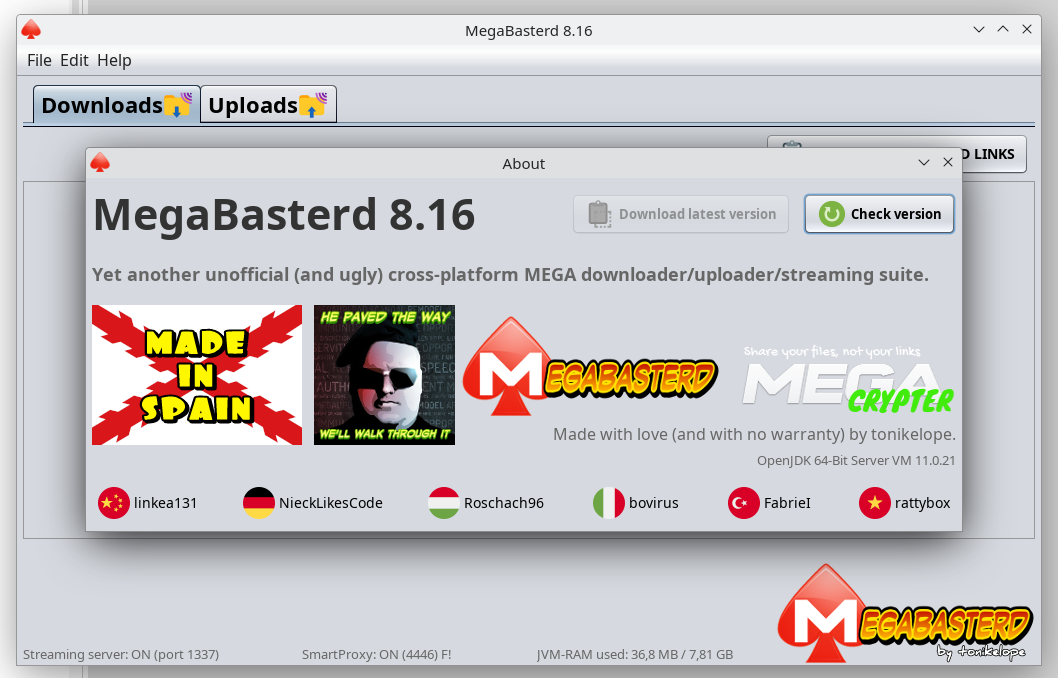
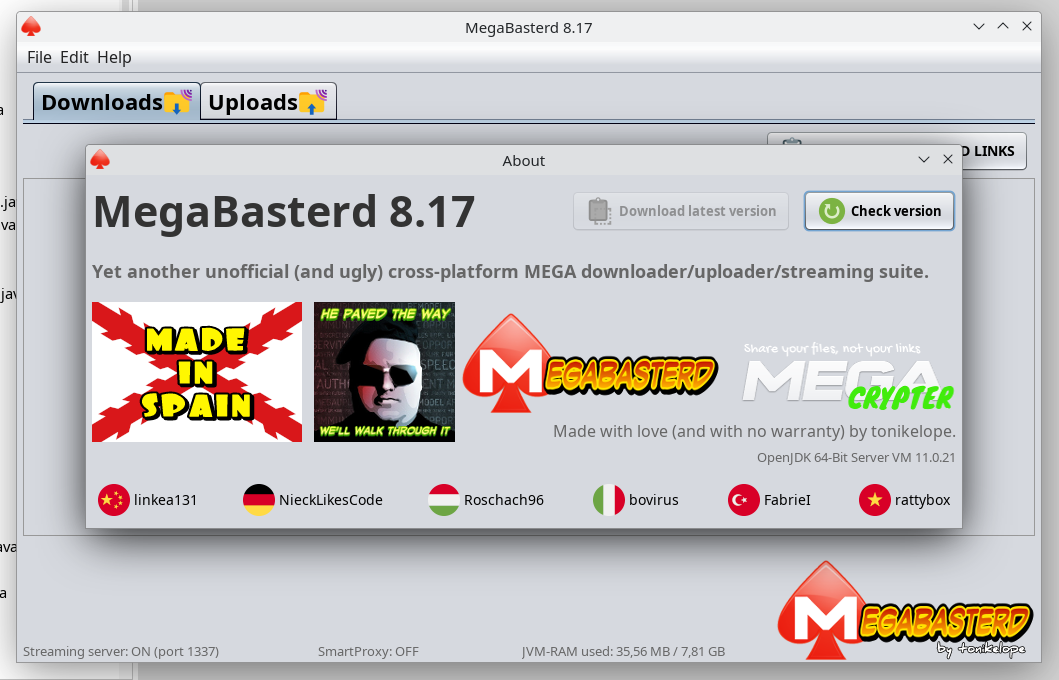
8.17
Dark mode in advanced settings (experimental)

diff --git a/src/main/java/com/tonikelope/megabasterd/SettingsDialog.java b/src/main/java/com/tonikelope/megabasterd/SettingsDialog.java
@@ -387,6 +387,17 @@ public class SettingsDialog extends javax.swing.JDialog {
                 proxy_sequential_radio.setSelected(true);
             }
 
+            boolean dark_mode = false;
+
+            String dark_mode_select = DBTools.selectSettingValue("dark_mode");
+
+            if (dark_mode_select != null) {
+
+                dark_mode = dark_mode_select.equals("yes");
+            }
+
+            dark_mode_checkbox.setSelected(dark_mode);
+
             String max_ul_speed = DBTools.selectSettingValue("max_upload_speed");
 
             int max_upload_speed = Upload.MAX_TRANSFERENCE_SPEED_DEFAULT;
@@ -883,6 +894,7 @@ public class SettingsDialog extends javax.swing.JDialog {
         font_combo = new javax.swing.JComboBox<>();
         zoom_label = new javax.swing.JLabel();
         zoom_spinner = new javax.swing.JSpinner();
+        dark_mode_checkbox = new javax.swing.JCheckBox();
         debug_file_path = new javax.swing.JLabel();
         status = new javax.swing.JLabel();
 
@@ -996,6 +1008,7 @@ public class SettingsDialog extends javax.swing.JDialog {
 
         default_dir_label.setBackground(new java.awt.Color(153, 255, 153));
         default_dir_label.setFont(new java.awt.Font("Dialog", 0, 18)); // NOI18N
+        default_dir_label.setForeground(new java.awt.Color(51, 0, 255));
         default_dir_label.setText("default dir");
         default_dir_label.setOpaque(true);
 
@@ -1364,6 +1377,7 @@ public class SettingsDialog extends javax.swing.JDialog {
         public_folder_warning.setBackground(new java.awt.Color(255, 255, 51));
         public_folder_warning.setColumns(20);
         public_folder_warning.setFont(new java.awt.Font("Noto Sans", 1, 18)); // NOI18N
+        public_folder_warning.setForeground(new java.awt.Color(0, 51, 255));
         public_folder_warning.setLineWrap(true);
         public_folder_warning.setRows(5);
         public_folder_warning.setText("THIS OPTION IS NOT RECOMMENDED. Using this will cause MegaBasterd uploaded folder to appear in your account as NOT DECRYPTABLE. \n\nAt the time of writing this text, there is a method to FIX IT:\n\n1) Move first upload subfolder to the ROOT (CLOUD) folder of your account. \n\n2) Go to account settings and click RELOAD ACCOUNT. \n\nI don't know how long this method will last. USE THIS OPTION AT YOUR OWN RISK.");
@@ -1889,25 +1903,30 @@ public class SettingsDialog extends javax.swing.JDialog {
         zoom_spinner.setFont(new java.awt.Font("Dialog", 0, 18)); // NOI18N
         zoom_spinner.setDoubleBuffered(true);
 
+        dark_mode_checkbox.setFont(new java.awt.Font("Dialog", 1, 18)); // NOI18N
+        dark_mode_checkbox.setText("DARK MODE");
+
         javax.swing.GroupLayout jPanel2Layout = new javax.swing.GroupLayout(jPanel2);
         jPanel2.setLayout(jPanel2Layout);
         jPanel2Layout.setHorizontalGroup(
             jPanel2Layout.createParallelGroup(javax.swing.GroupLayout.Alignment.LEADING)
             .addGroup(jPanel2Layout.createSequentialGroup()
                 .addContainerGap()
-                .addGroup(jPanel2Layout.createParallelGroup(javax.swing.GroupLayout.Alignment.LEADING, false)
-                    .addGroup(jPanel2Layout.createSequentialGroup()
-                        .addGroup(jPanel2Layout.createParallelGroup(javax.swing.GroupLayout.Alignment.LEADING)
-                            .addComponent(zoom_label)
-                            .addComponent(font_label))
-                        .addPreferredGap(javax.swing.LayoutStyle.ComponentPlacement.RELATED, javax.swing.GroupLayout.DEFAULT_SIZE, Short.MAX_VALUE)
-                        .addGroup(jPanel2Layout.createParallelGroup(javax.swing.GroupLayout.Alignment.LEADING, false)
-                            .addComponent(font_combo, 0, javax.swing.GroupLayout.DEFAULT_SIZE, Short.MAX_VALUE)
-                            .addComponent(zoom_spinner, javax.swing.GroupLayout.PREFERRED_SIZE, 351, javax.swing.GroupLayout.PREFERRED_SIZE)))
-                    .addGroup(jPanel2Layout.createSequentialGroup()
-                        .addComponent(jLabel2)
-                        .addPreferredGap(javax.swing.LayoutStyle.ComponentPlacement.RELATED, javax.swing.GroupLayout.DEFAULT_SIZE, Short.MAX_VALUE)
-                        .addComponent(language_combo, javax.swing.GroupLayout.PREFERRED_SIZE, 351, javax.swing.GroupLayout.PREFERRED_SIZE)))
+                .addGroup(jPanel2Layout.createParallelGroup(javax.swing.GroupLayout.Alignment.LEADING)
+                    .addGroup(jPanel2Layout.createParallelGroup(javax.swing.GroupLayout.Alignment.LEADING, false)
+                        .addGroup(jPanel2Layout.createSequentialGroup()
+                            .addGroup(jPanel2Layout.createParallelGroup(javax.swing.GroupLayout.Alignment.LEADING)
+                                .addComponent(zoom_label)
+                                .addComponent(font_label))
+                            .addPreferredGap(javax.swing.LayoutStyle.ComponentPlacement.RELATED, javax.swing.GroupLayout.DEFAULT_SIZE, Short.MAX_VALUE)
+                            .addGroup(jPanel2Layout.createParallelGroup(javax.swing.GroupLayout.Alignment.LEADING, false)
+                                .addComponent(font_combo, 0, javax.swing.GroupLayout.DEFAULT_SIZE, Short.MAX_VALUE)
+                                .addComponent(zoom_spinner, javax.swing.GroupLayout.PREFERRED_SIZE, 351, javax.swing.GroupLayout.PREFERRED_SIZE)))
+                        .addGroup(jPanel2Layout.createSequentialGroup()
+                            .addComponent(jLabel2)
+                            .addPreferredGap(javax.swing.LayoutStyle.ComponentPlacement.RELATED, javax.swing.GroupLayout.DEFAULT_SIZE, Short.MAX_VALUE)
+                            .addComponent(language_combo, javax.swing.GroupLayout.PREFERRED_SIZE, 351, javax.swing.GroupLayout.PREFERRED_SIZE)))
+                    .addComponent(dark_mode_checkbox))
                 .addContainerGap())
         );
         jPanel2Layout.setVerticalGroup(
@@ -1925,6 +1944,8 @@ public class SettingsDialog extends javax.swing.JDialog {
                 .addGroup(jPanel2Layout.createParallelGroup(javax.swing.GroupLayout.Alignment.BASELINE)
                     .addComponent(jLabel2)
                     .addComponent(language_combo, javax.swing.GroupLayout.PREFERRED_SIZE, javax.swing.GroupLayout.DEFAULT_SIZE, javax.swing.GroupLayout.PREFERRED_SIZE))
+                .addPreferredGap(javax.swing.LayoutStyle.ComponentPlacement.RELATED)
+                .addComponent(dark_mode_checkbox)
                 .addContainerGap())
         );
 
@@ -2102,6 +2123,7 @@ public class SettingsDialog extends javax.swing.JDialog {
             settings.put("force_smart_proxy", force_smart_proxy_checkbox.isSelected() ? "yes" : "no");
             settings.put("reset_slot_proxy", proxy_reset_slot_checkbox.isSelected() ? "yes" : "no");
             settings.put("random_proxy", proxy_random_radio.isSelected() ? "yes" : "no");
+            settings.put("dark_mode", dark_mode_checkbox.isSelected() ? "yes" : "no");
             settings.put("upload_public_folder", upload_public_folder_checkbox.isSelected() ? "yes" : "no");
             settings.put("smartproxy_ban_time", String.valueOf(bad_proxy_time_spinner.getValue()));
             settings.put("smartproxy_timeout", String.valueOf(proxy_timeout_spinner.getValue()));
@@ -2168,6 +2190,16 @@ public class SettingsDialog extends javax.swing.JDialog {
             }
 
             String zoom = String.valueOf(zoom_spinner.getValue());
+
+            boolean old_dark_mode = false;
+
+            String dark_mode_val = DBTools.selectSettingValue("dark_mode");
+
+            if (dark_mode_val != null) {
+                old_dark_mode = (dark_mode_val.equals("yes"));
+            }
+
+            boolean dark_mode = dark_mode_checkbox.isSelected();
 
             boolean old_use_proxy = false;
 
@@ -2242,7 +2274,8 @@ public class SettingsDialog extends javax.swing.JDialog {
                     || !proxy_host.equals(old_proxy_host)
                     || !proxy_port.equals(old_proxy_port)
                     || !proxy_user.equals(old_proxy_user)
-                    || !proxy_pass.equals(old_proxy_pass)) {
+                    || !proxy_pass.equals(old_proxy_pass)
+                    || dark_mode != old_dark_mode) {
 
                 _main_panel.setRestart(true);
             }
@@ -3416,6 +3449,7 @@ public class SettingsDialog extends javax.swing.JDialog {
     private javax.swing.JLabel custom_chunks_dir_current_label;
     private javax.swing.JLabel custom_proxy_list_label;
     private javax.swing.JTextArea custom_proxy_textarea;
+    private javax.swing.JCheckBox dark_mode_checkbox;
     private javax.swing.JCheckBox debug_file_checkbox;
     private javax.swing.JLabel debug_file_path;
     private javax.swing.JLabel default_dir_label;

diff --git a/src/main/java/com/tonikelope/megabasterd/MiscTools.java b/src/main/java/com/tonikelope/megabasterd/MiscTools.java
@@ -11,6 +11,7 @@ package com.tonikelope.megabasterd;
 
 import static com.tonikelope.megabasterd.MainPanel.THREAD_POOL;
 import static com.tonikelope.megabasterd.MainPanel.VERSION;
+import java.awt.Color;
 import java.awt.Component;
 import java.awt.Container;
 import java.awt.Desktop;
@@ -99,6 +100,8 @@ import javax.swing.JOptionPane;
 import javax.swing.JPanel;
 import javax.swing.JTree;
 import javax.swing.SwingUtilities;
+import javax.swing.UIDefaults;
+import javax.swing.UIManager;
 import javax.swing.border.TitledBorder;
 import javax.swing.tree.DefaultMutableTreeNode;
 import javax.swing.tree.DefaultTreeModel;
@@ -280,12 +283,35 @@ public class MiscTools {
         return font;
     }
 
-    public static void setNimbusLookAndFeel() {
+    public static void setNimbusLookAndFeel(boolean dark) {
 
         try {
             for (javax.swing.UIManager.LookAndFeelInfo info : javax.swing.UIManager.getInstalledLookAndFeels()) {
                 if ("Nimbus".equals(info.getName())) {
                     javax.swing.UIManager.setLookAndFeel(info.getClassName());
+
+                    if (dark) {
+                        // Dark LAF
+                        UIManager.put("control", new Color(128, 128, 128));
+                        UIManager.put("info", new Color(128, 128, 128));
+                        UIManager.put("nimbusBase", new Color(18, 30, 49));
+                        UIManager.put("nimbusAlertYellow", new Color(248, 187, 0));
+                        UIManager.put("nimbusDisabledText", new Color(128, 128, 128));
+                        UIManager.put("nimbusFocus", new Color(115, 164, 209));
+                        UIManager.put("nimbusGreen", new Color(176, 179, 50));
+                        UIManager.put("nimbusInfoBlue", new Color(66, 139, 221));
+                        UIManager.put("nimbusLightBackground", new Color(18, 30, 49));
+                        UIManager.put("nimbusOrange", new Color(191, 98, 4));
+                        UIManager.put("nimbusRed", new Color(169, 46, 34));
+                        UIManager.put("nimbusSelectedText", new Color(255, 255, 255));
+                        UIManager.put("nimbusSelectionBackground", new Color(104, 93, 156));
+                        UIManager.put("text", new Color(230, 230, 230));
+                        // SwingUtilities.updateComponentTreeUI(this);
+                    } else {
+                        UIDefaults defaults = UIManager.getLookAndFeelDefaults();
+                        defaults.put("nimbusOrange", defaults.get("nimbusFocus"));
+                    }
+
                     break;
                 }
             }

diff --git a/src/main/java/com/tonikelope/megabasterd/MainPanel.java b/src/main/java/com/tonikelope/megabasterd/MainPanel.java
@@ -61,7 +61,6 @@ import static javax.swing.JOptionPane.YES_NO_CANCEL_OPTION;
 import static javax.swing.JOptionPane.showOptionDialog;
 import javax.swing.JPopupMenu;
 import javax.swing.SwingUtilities;
-import javax.swing.UIDefaults;
 import javax.swing.UIManager;
 
 /**
@@ -70,7 +69,7 @@ import javax.swing.UIManager;
  */
 public final class MainPanel {
 
-    public static final String VERSION = "8.16";
+    public static final String VERSION = "8.17";
     public static final boolean FORCE_SMART_PROXY = false; //TRUE FOR DEBUGING SMART PROXY
     public static final int THROTTLE_SLICE_SIZE = 16 * 1024;
     public static final int DEFAULT_BYTE_BUFFER_SIZE = 16 * 1024;
@@ -107,10 +106,7 @@ public final class MainPanel {
 
     public static void main(String args[]) {
 
-        setNimbusLookAndFeel();
-
-        UIDefaults defaults = UIManager.getLookAndFeelDefaults();
-        defaults.put("nimbusOrange", defaults.get("nimbusFocus"));
+        setNimbusLookAndFeel("yes".equals(DBTools.selectSettingValue("dark_mode")));
 
         if (args.length > 0) {
 
